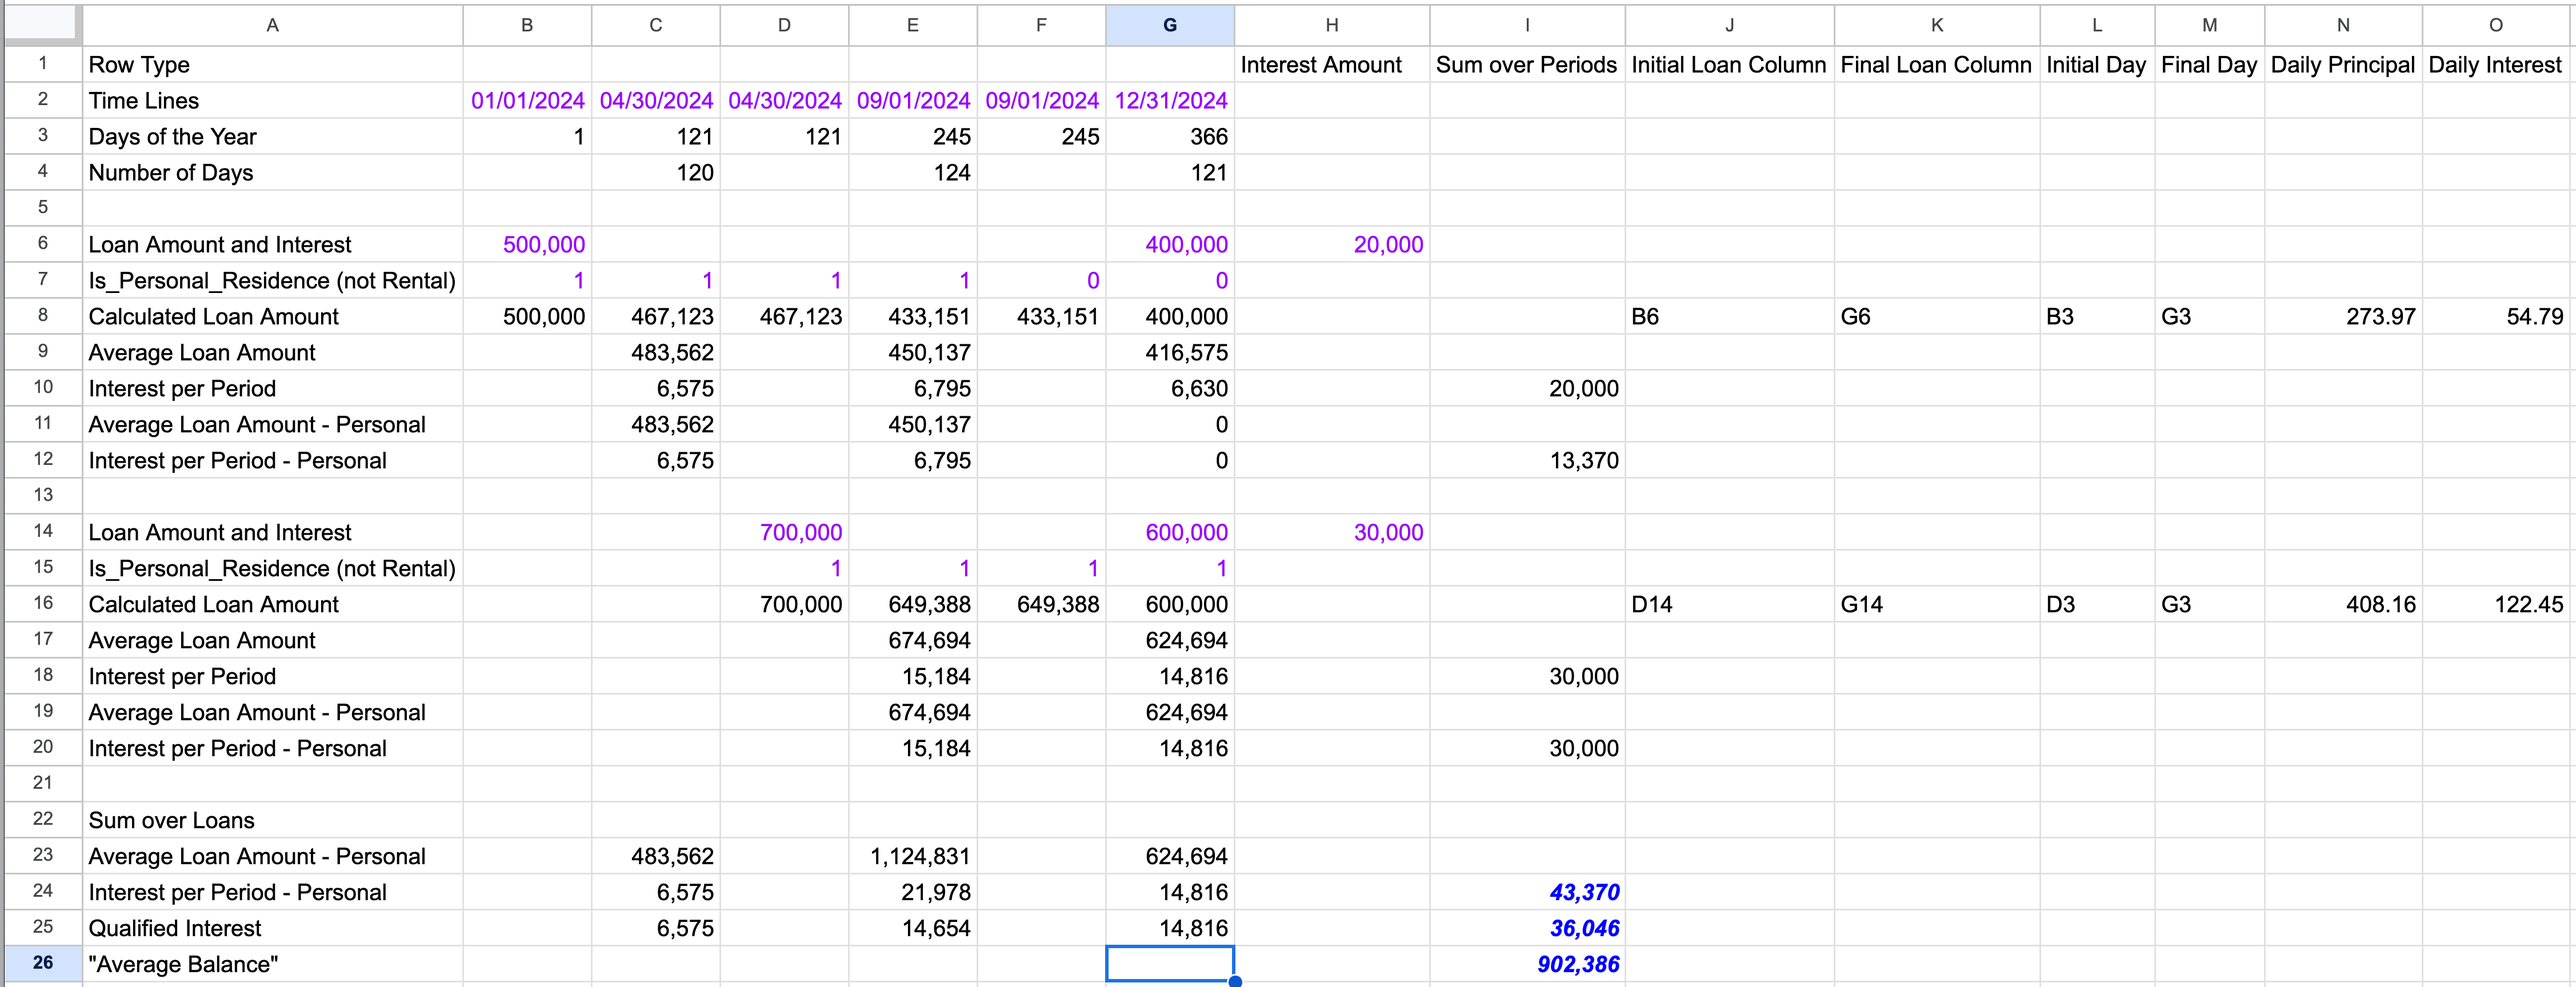
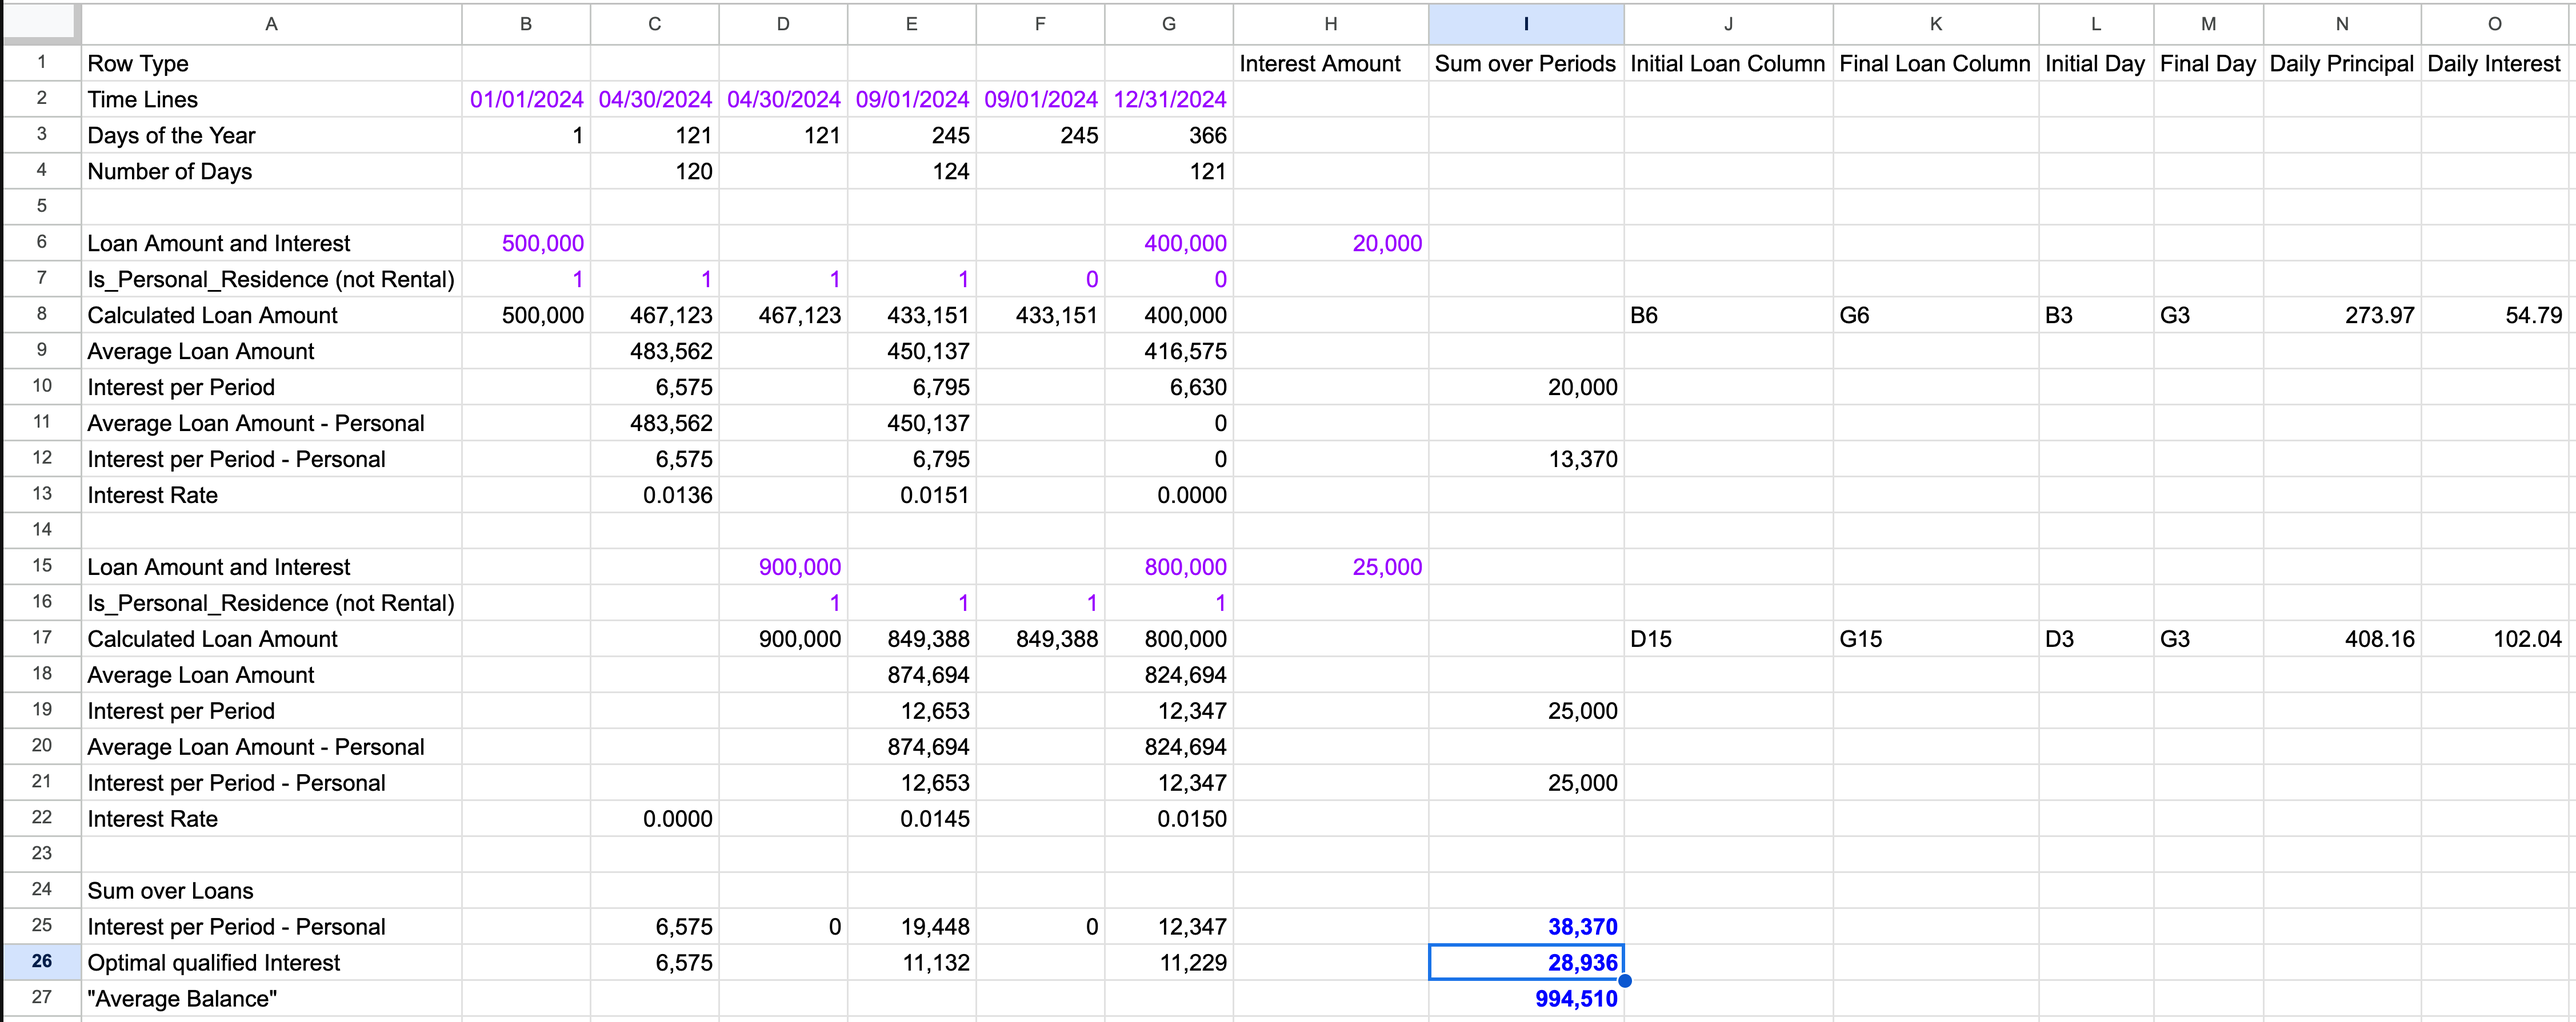
update

Changed region(s): [[0.0, 0.0, 1.0, 1.0], [0.2484, 0.7812, 0.2795, 0.8125]]

diff --git a/cat/tax/_posts/2025-04-26-qualified-mortgage-interest.md b/cat/tax/_posts/2025-04-26-qualified-mortgage-interest.md
@@ -9,29 +9,25 @@ categories:
 
 ### Introduction
 
-The mortgage interest deduction allows taxpayers to deduct mortgage interest
-paid on qualified residence loans. Under the Tax Cuts and Jobs Act (TCJA), the
-maximum loan amount eligible for deduction is $750,000 for loans incurred after
-December 15, 2017.
+The mortgage interest deduction allows taxpayers to deduct interest paid on qualified residence loans.
+Under the Tax Cuts and Jobs Act (TCJA), the maximum loan amount eligible for deduction is $750,000 for mortgages incurred after December 15, 2017.
 
-This post aims to provide a mathematically correct method to compute the
-qualified mortgage interest directly, and re-define the average mortgage balance.
-However, before we do that, let us survey the available methods provided by the
-IRS.
+This post provides a mathematically accurate method for computing qualified mortgage interest directly, as well as a refined approach to defining the average mortgage balance.
+Before introducing the new method, however, we will first review the methods currently provided by the IRS.
 
 ### IRS provided methods
 
 Under Treasury Regulation [§1.163-10T(h)][reg163]{:target="_blank"},
 several acceptable methods are available for determining the average balance of debt secured by a qualified residence:
 
-- Daily basis methid ([Reg. §1.163-10T(h)(3)][reg163]{:target="_blank"}): This method calculates the
+- Daily basis method ([Reg. §1.163-10T(h)(3)][reg163]{:target="_blank"}): This method calculates the
   average mortgage balance by weighting the actual principal outstanding each
   day over the course of the year.
 
   This method can favor taxpayers
   by averaging down the balance when you do not have a loan during some months but
   while owning the home as a residence. For example, John Smith starts 2024 with a $1.5 million mortgage and pays it off on June 30.
-  under this method, his average balance is about $750,000, allowing full deduction of the interest paid.
+  Under this method, his average balance is about $750,000, allowing full deduction of the interest paid.
 
 - Interest Rate Method ([Reg. §1.163-10T(h)(4)][reg163]{:target="_blank"}): This method calculates the
   average balance based on the ratio between the interest paid and the stated interest rate of the debt.
@@ -49,8 +45,8 @@ several acceptable methods are available for determining the average balance of 
   level, even if the balance dropped later.
 
   For this reason, I specifically ask for the year-end mortgage balance in my
-  checklist, so that I can apply a more favorable calculation method — which may
-  lower the average balance and thus maximize the mortgage interest deduction
+  checklist, so that I can apply a more favorable calculation method - which may
+  lower the average balance and thus maximize the mortgage interest deduction.
 
 Furthermore, [Reg. §1.163-10T(h)(8)][reg163]{:target="_blank"} establishes an anti-abuse provision. Under
 this rule, if the IRS determines that a taxpayer’s chosen method materially
@@ -58,106 +54,127 @@ overstates the interest deduction, the IRS has the authority to adjust the
 calculation using a more appropriate method to correctly reflect the average
 balance of the debt.
 
-### "Exact" method - Concept
+### Direct Method - Concept
 
-While IRS provided methods based on "average mortgage" balance work well
-for simple cases, none of them work well for complex scenarios. An example was shown in the diagram at the beginning of this article where:
+Although the IRS provides several methods based on average mortgage balance for
+simple cases, they do not address more complex real-world situations.
 
-- First loan was active for the entire year 2024 but is converted to rental use starting September 1, 2024.
-- A second loan is obtained on April 30, 2024, to purchase a new principal residence, and it remains active through the end of the year.
+To handle such cases, we rely on both the law and mathematics. Instead of
+calculating a single average mortgage balance for the entire year, we compute
+qualified mortgage interest period-by-period throughout the year.
 
-To handle any of the situations, we direct resort to the law and mathematics. 
+Within each period, if multiple loans exist, the method applies either a "Simplified
+Method" or an "Exact Method" similar to the principles outlined in Treasury
+Regulation [§1.163-10T(d)][reg163]{:target="_blank"} and [§1.163-10T(e)][reg163]{:target="_blank"}.
 
-[IRC 163(h)(3)(B)(ii)][irc163]{:target="_blank"} provides the basis to calculate the qualified mortgage interest:
+Although not explicitly listed among the IRS's provided methods, this
+calculation approach is fully defensible because it is based on statutory law
+and sound mathematical principles.
+
+[IRC 163(h)(3)(B)(ii)][irc163]{:target="_blank"} establishes the basis for calculating qualified mortgage interest:
 
 >The aggregate amount treated as acquisition indebtedness _for any period_ shall not exceed $1,000,000 ($500,000 in the case of a married individual filing a separate return).
 
-where the limit was modified by [IRC 163(h)(3)(F)(i)][irc163]{:target="_blank"}
+This limit was subsequently modified by [IRC 163(h)(3)(F)(i)][irc163]{:target="_blank"}:
 
 > Limitation on acquisition indebtedness. Subparagraph (B)(ii) shall be applied by substituting "$750,000 ($375,000" for "$1,000,000 ($500,000".
 
-Not related to the law at all, but in pure mathematics, the defintion of the interest amount for loan i is the integral of the interest per dollar per day ($$\alpha_i$$) multiplied by the loan amount (L_i)
-over time period. The total interest is then the sum over all loans. Expressed as a mathematical formula:
+From a purely mathematical perspective, independent of tax law, the definition of interest amount for loan $$i$$
+is the integral of the interest per dollar per day ($$\alpha_i$$)
+multiplied by the loan amount (L_i)
+over time. The total interest paid across all loans can be expressed as:
 
 $$
 \text{Total Interest} = \sum_{i=1}^{n} \int_0^{T} \alpha_i \times L_i \, dt \tag{1}
 $$
 
-Apart from the factor of $$\alpha_i$$, the total interest is represented by the total area under the curve (the light purple and dark purple areas combined) in the digram.
+Apart from the factor of $$\alpha_i$$, the total interest corresponds to the total area under the curve (the light purple and dark purple areas combined) shown in the digram.
 
-The law simply adds a restriction for qualified interest: 
-
-$$
-\sum_{i=1}^{n} L_i <= 750,000 \tag{2}
-$$
-
-The Qualified Interest is represented by the dark purple area only.
-
-Please note that the law only restricts the total loan amount eligible for the
-deduction; it is up to us to choose which loan amounts to include, and how much
-to include in the qualified interest calculation. We can either allocate
-proportionally or allocate optimally by prioritizing the loan with the higher
-interest rate $$\alpha$$.
-
-### "Exact" method - Calculation
-
-Since we know the total interest paid (the total area), we use the ratio of the
-purple area to the total area to prorate the qualified interest.
-
-In practice, we can use a method similar to "cutting the circle" to carry out the calculation:
-
-- Divide the year to a few periods where the principal changes approximately linearly within each period;
-- Allocate interest paid for the period;
-- Prorate the interest by:
+The law simply imposes a restriction on the loan amounts eligible for deduction:
 
 $$
-\text{Qualified Interest} = \text{Total Interest} \times \min\left(1, \frac{750,000}{\text{Average Principal}}\right) \tag{3}
+\sum_{i=1}^{n} L_i \leq 750,000 \tag{2}
 $$
 
-- Add them up.
+Thus, the Qualified Interest corresponds only to the dark purple area.
 
-When we have more than one loan at the same time, we need to coordinate the
-the loans so that the total loan amount to include in the qualified interest calculation
-does not exceed the qualified loan limit.
+Please note that the law restricts only the total loan amount eligible for the deduction; it does not dictate exactly which loans must be included.
+Therefore, we have flexibility:
+we can allocate proportionally across loans or allocate optimally by prioritizing loans with the higher interest rate $$\alpha$$.
 
-The steps involve using the average mortgage balance method in separate periods, and inside
-each period, if there are more than two loans, we use the exact method similat to the simplified method and the exact method described in
-[Reg. §1.163-10T(d)(3)][reg163]{:target="_blank"}
-and
-[Reg. §1.163-10T(e)(3)(iii)][reg163]{:target="_blank"}
-except the loan amount is not limited by the cost basis but by the qualified limit.
+### Direct Method - Example
 
-As a spreadsheet is accidentally [Turing complete][turing]{:target="_blank"},
-we developed a tool in Google sheets to automate the calculation. That is, you provide input as shown in purple, and
-the final results appear automatically in highlighted blue.
+First loan:
 
-The image below demontrates a calculation using the proportional inclusion method, i.e. we use $$750,000\times \frac{L_1}{L_1+L_2}$$ amount from
-loan 1 and $$750,000\times \frac{L_2}{L_1+L_2}$$ amount from loan 2. I have an optiomal method to include the loan from the highest interest rate
-as much as possible with slightly modification of logic.
+- 01/01/2024: Balance of $500,000
+- 09/01/2024: Converted to rental property.
+- 12/31/2024: Year-end balance of $400,000, interest paid: $20,000
+
+Second loan:
+
+- 04/30/2024: Borrowed $90,000 to buy a new home.
+- 12/31/2024: Year-end balance of $80,000, interest paid: $25,000
+
+We divided the year into three periods:
+
+- 01/01/2024 - 04/30/2024: Only the first loan is present
+- 04/30/2024 - 09/01/2024: Both loans are active.
+- 09/01/2024 - 12/31/2024: Only the second loan is active (the first loan has been converted to rental use).
+
+During each period, we can calculate:
+
+- Beginning and ending balances for each loan by extrapolation, and then determine the average balance.
+- Interest prorated to each period based on the number of days in the period.
+
+For periods 1 and 3, we can calculate the qualified interest based on the average loan balance using the following equation:
+
+$$
+\text{Qualified Interest} = \text{Total Interest} \times \min\left(1, \frac{750,000}{\text{Average Balance}}\right) \tag{3}
+$$
+
+For period 2, we have two options:
+
+- Average method: Combine the balances and interests of both loans and apply the same formula to the combined amounts.
+- Optimal method: Prioritize including the loan with the higher interest rate first, up to the $750,000 limit.
+
+After calculating the qualified interest for each period, we sum them to obtain the yearly total.
+
+Since spreadsheets are accidentally [Turing complete][turing]{:target="_blank"},
+we developed a Google Sheets tool to automate the calculation. You simply enter the input data (highlighted in purple), and the results appear automatically (highlighted in blue).
+
+The image below demonstrates a calculation using the optimal method:
 
 <img src="/assets/images/20250426-google-sheets.png"/>
 
-### Average loan balance defined
+### Average Loan Balance Defined
 
-As we calcuale the qualified mortgage interest period by period, the
-yearly average mortgage balance is not needed and not mathematically defined.
+Since we have already calculated the yearly qualified mortgage interest
+directly, we no longer need to compute the yearly average mortgage balance to
+derive it.
 
-The IRS uses the yearly avergage mortgage balance and the yearly interest to calculate the yearly qualified interest using Equation (3).
-However, since the yearly qualified interest is already calculated, we can reverse the logic
-and define the yearly avergage mortgage balance such as equation (3) will give the correct result.
-In other words, we reverse the formula and define the Average Principal for the year as:
+The IRS typically uses the yearly average mortgage balance along with the
+yearly interest paid to calculate qualified interest under Equation (3).
+
+However, because we have already determined the yearly qualified interest
+precisely, we can reverse-engineer the logic and define the average mortgage
+balance in such a way that Equation (3) still produces the correct result.
+
+In other words, we define the Average Principal for the year as:
 
 $$
 \text{Average Principal} = 750,000 \times \frac{\text{Interest for the Year}}{\text{Qualified Interest for the Year}} \tag{4}
 $$
 
-Since we have the qualified interest for the year, why do we need the average loan balance, You may ask? Well we do it for two purposes:
+You might wonder why we still need to calculate the average mortgage balance if
+the qualified interest is already known.
 
-- First of all, that is what the IRS asks in its table 1 in [Publication 936][pub936] to calculate qualified mortgage interest using
-total interest paid and average balance;
-- Secondly, We need to provide total interest for the year for states. While federal tax law caps the deduction at $750,000, state tax law may have different
-or no limits (some states allow the full personal residence mortgage interest deduction without the federal limitation).
-Thus, by calculating the Average Principal, we can flexibly apply either the $750,000 federal limit or the relevant state-specific rules.
+There are two important reasons:
+
+- First, the IRS requires the reporting of average mortgage balances in Table 1 of [Publication 936][pub936] to calculate qualified mortgage interest using the total interest paid and the average balance.
+- Second, we must provide the total interest information for state tax returns.
+While federal tax law caps the deductible amount at $750,000, some states apply different limits - or no limits at all - allowing full mortgage interest deductions without federal restrictions.
+
+Thus, by calculating the Average Principal, we retain flexibility to apply either the $750,000 federal limit or more generous state-specific rules as needed.
 
 [irc163]: https://www.taxnotes.com/research/federal/usc26/163
 [pub936]: https://www.irs.gov/pub/irs-pdf/p936.pdf
